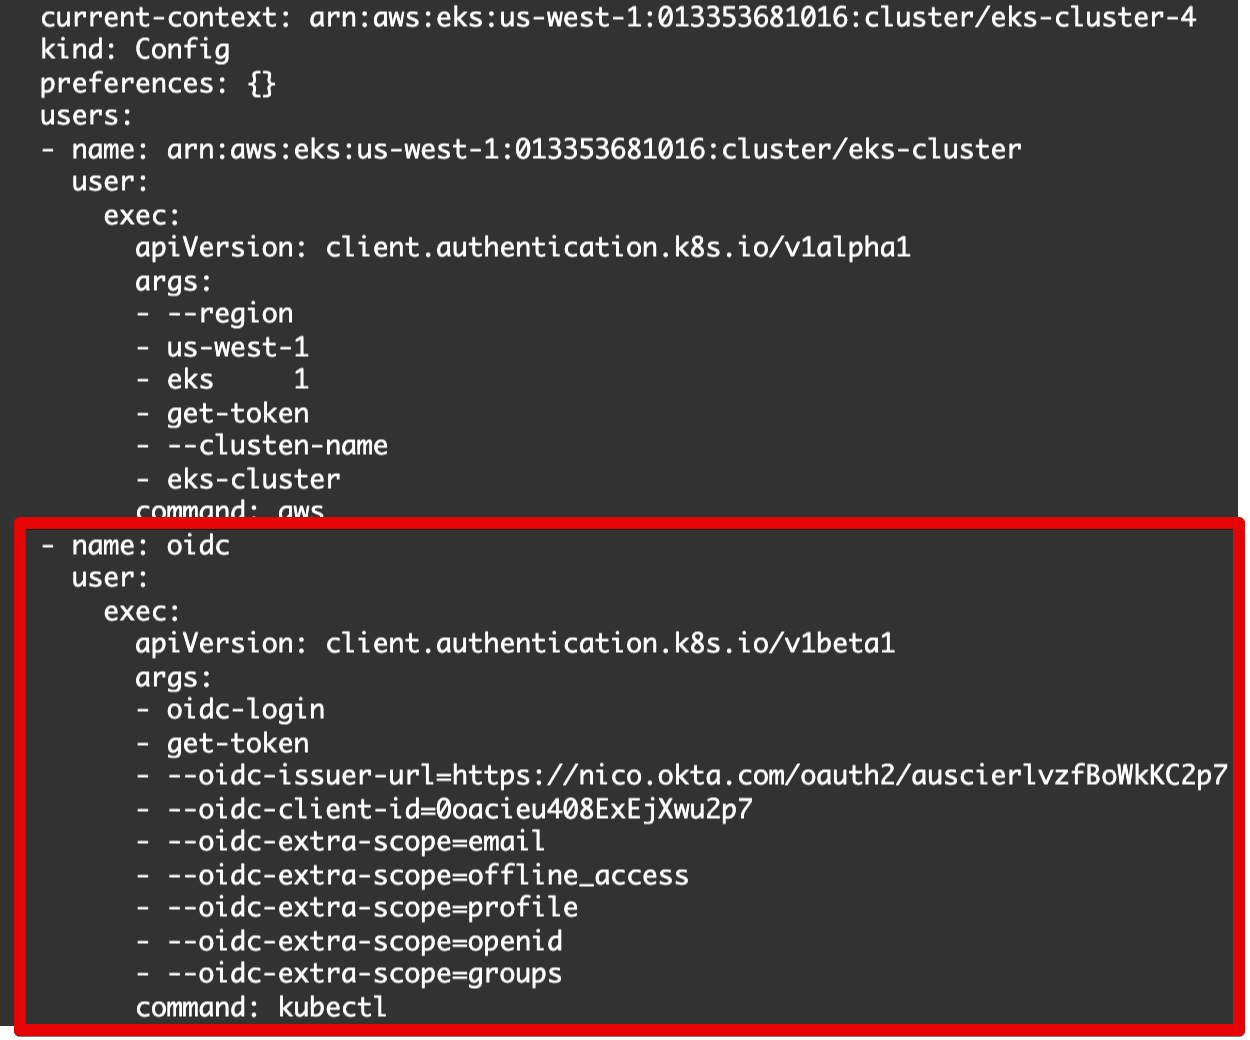
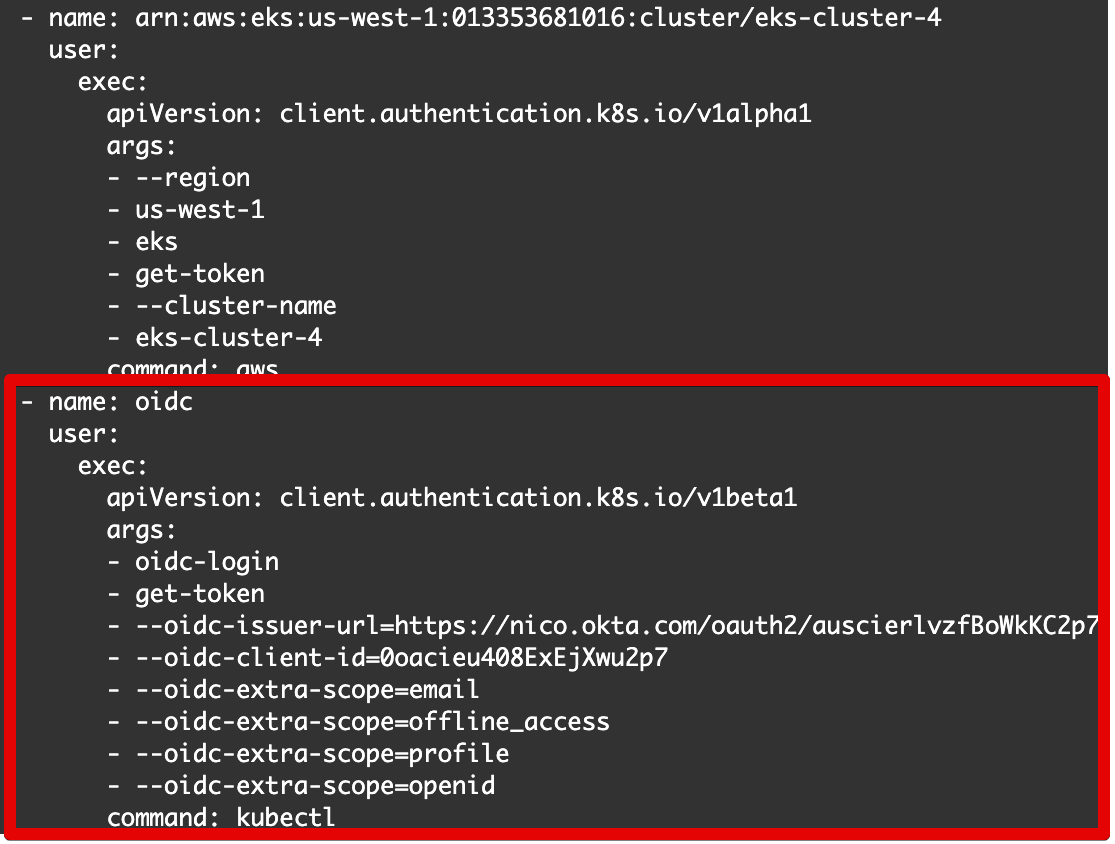
correct a minor issue with groups

Changed region(s): [[0.0, 0.0, 1.0, 1.0]]

diff --git a/_source/_posts/2021-10-08-secure-access-to-aws-eks.md b/_source/_posts/2021-10-08-secure-access-to-aws-eks.md
@@ -434,7 +434,7 @@ nano $HOME/.kube/config
 Below is the text to include:
 ```
 - name: oidc      
-    user:
+  user:
     exec:
         apiVersion: client.authentication.k8s.io/v1beta1
         args:
@@ -446,7 +446,6 @@ Below is the text to include:
         - --oidc-extra-scope=offline_access
         - --oidc-extra-scope=profile
         - --oidc-extra-scope=openid
-        - --oidc-extra-scope=groups
         command: kubectl
 ```
 
